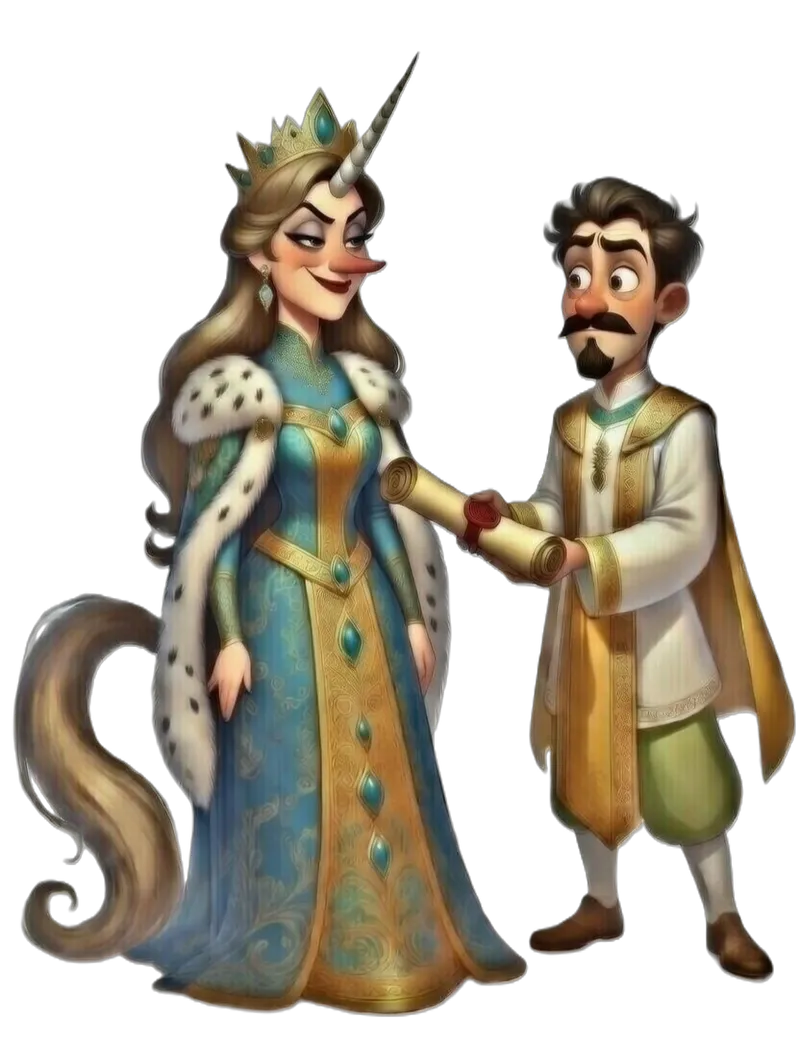
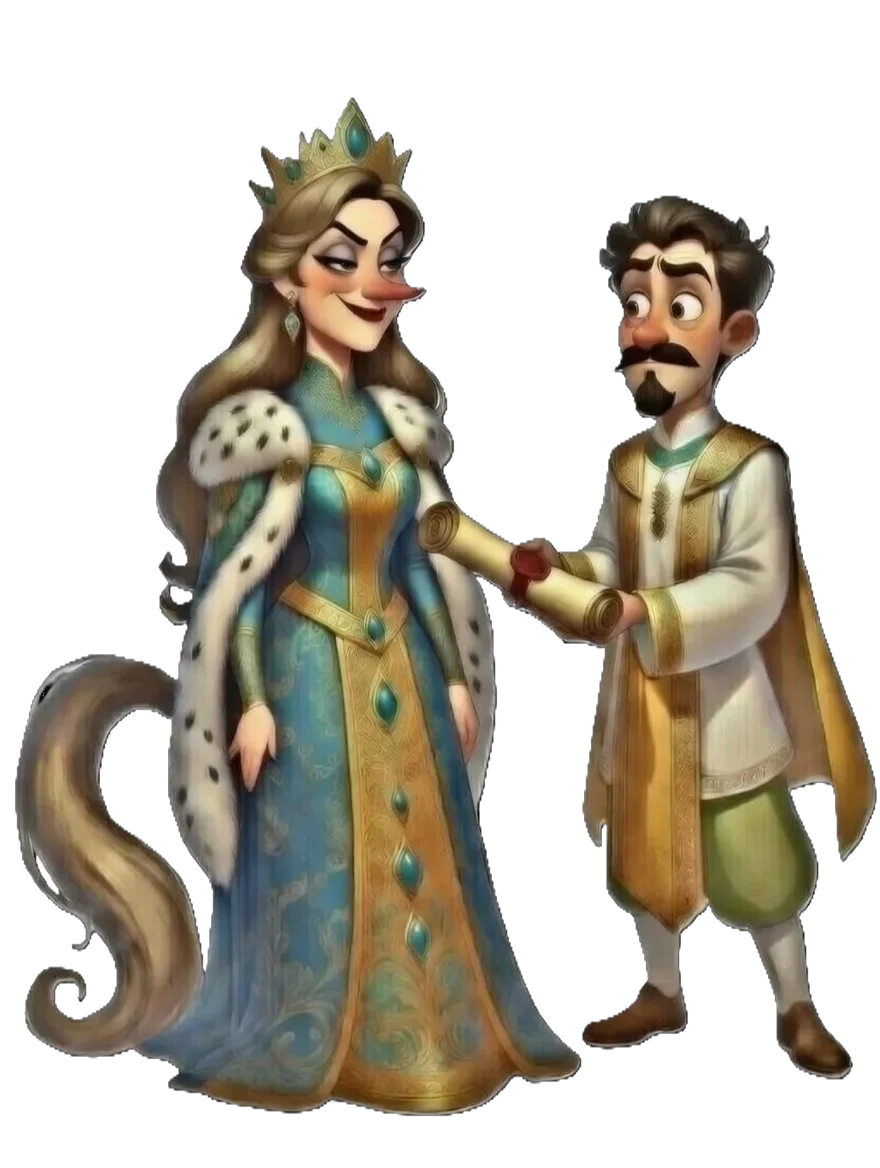
Sync illustrations setting for followers, replace 1:10 illustration

diff --git a/src/components/islands/MegillahReader.tsx b/src/components/islands/MegillahReader.tsx
@@ -895,6 +895,9 @@ export default function MegillahReader({ standalone = false, showTitle = false, 
     if (s.customTapHint) {
       setCustomTapHint(s.customTapHint);
     }
+    if (s.showIllustrations) {
+      setShowIllustrations(true);
+    }
   }, [session]);
 
   // Follower: apply real-time reading time from admin
@@ -1514,7 +1517,7 @@ export default function MegillahReader({ standalone = false, showTitle = false, 
             <input
               type="checkbox"
               checked={showIllustrations}
-              onChange={() => setShowIllustrations(!showIllustrations)}
+              onChange={() => { const next = !showIllustrations; setShowIllustrations(next); if (session?.role === 'admin') session.broadcastSetting('showIllustrations', next); }}
             />
             <span class="toggle-switch"></span>
             <span class="option-label">{t.displayIllustrations}</span>
